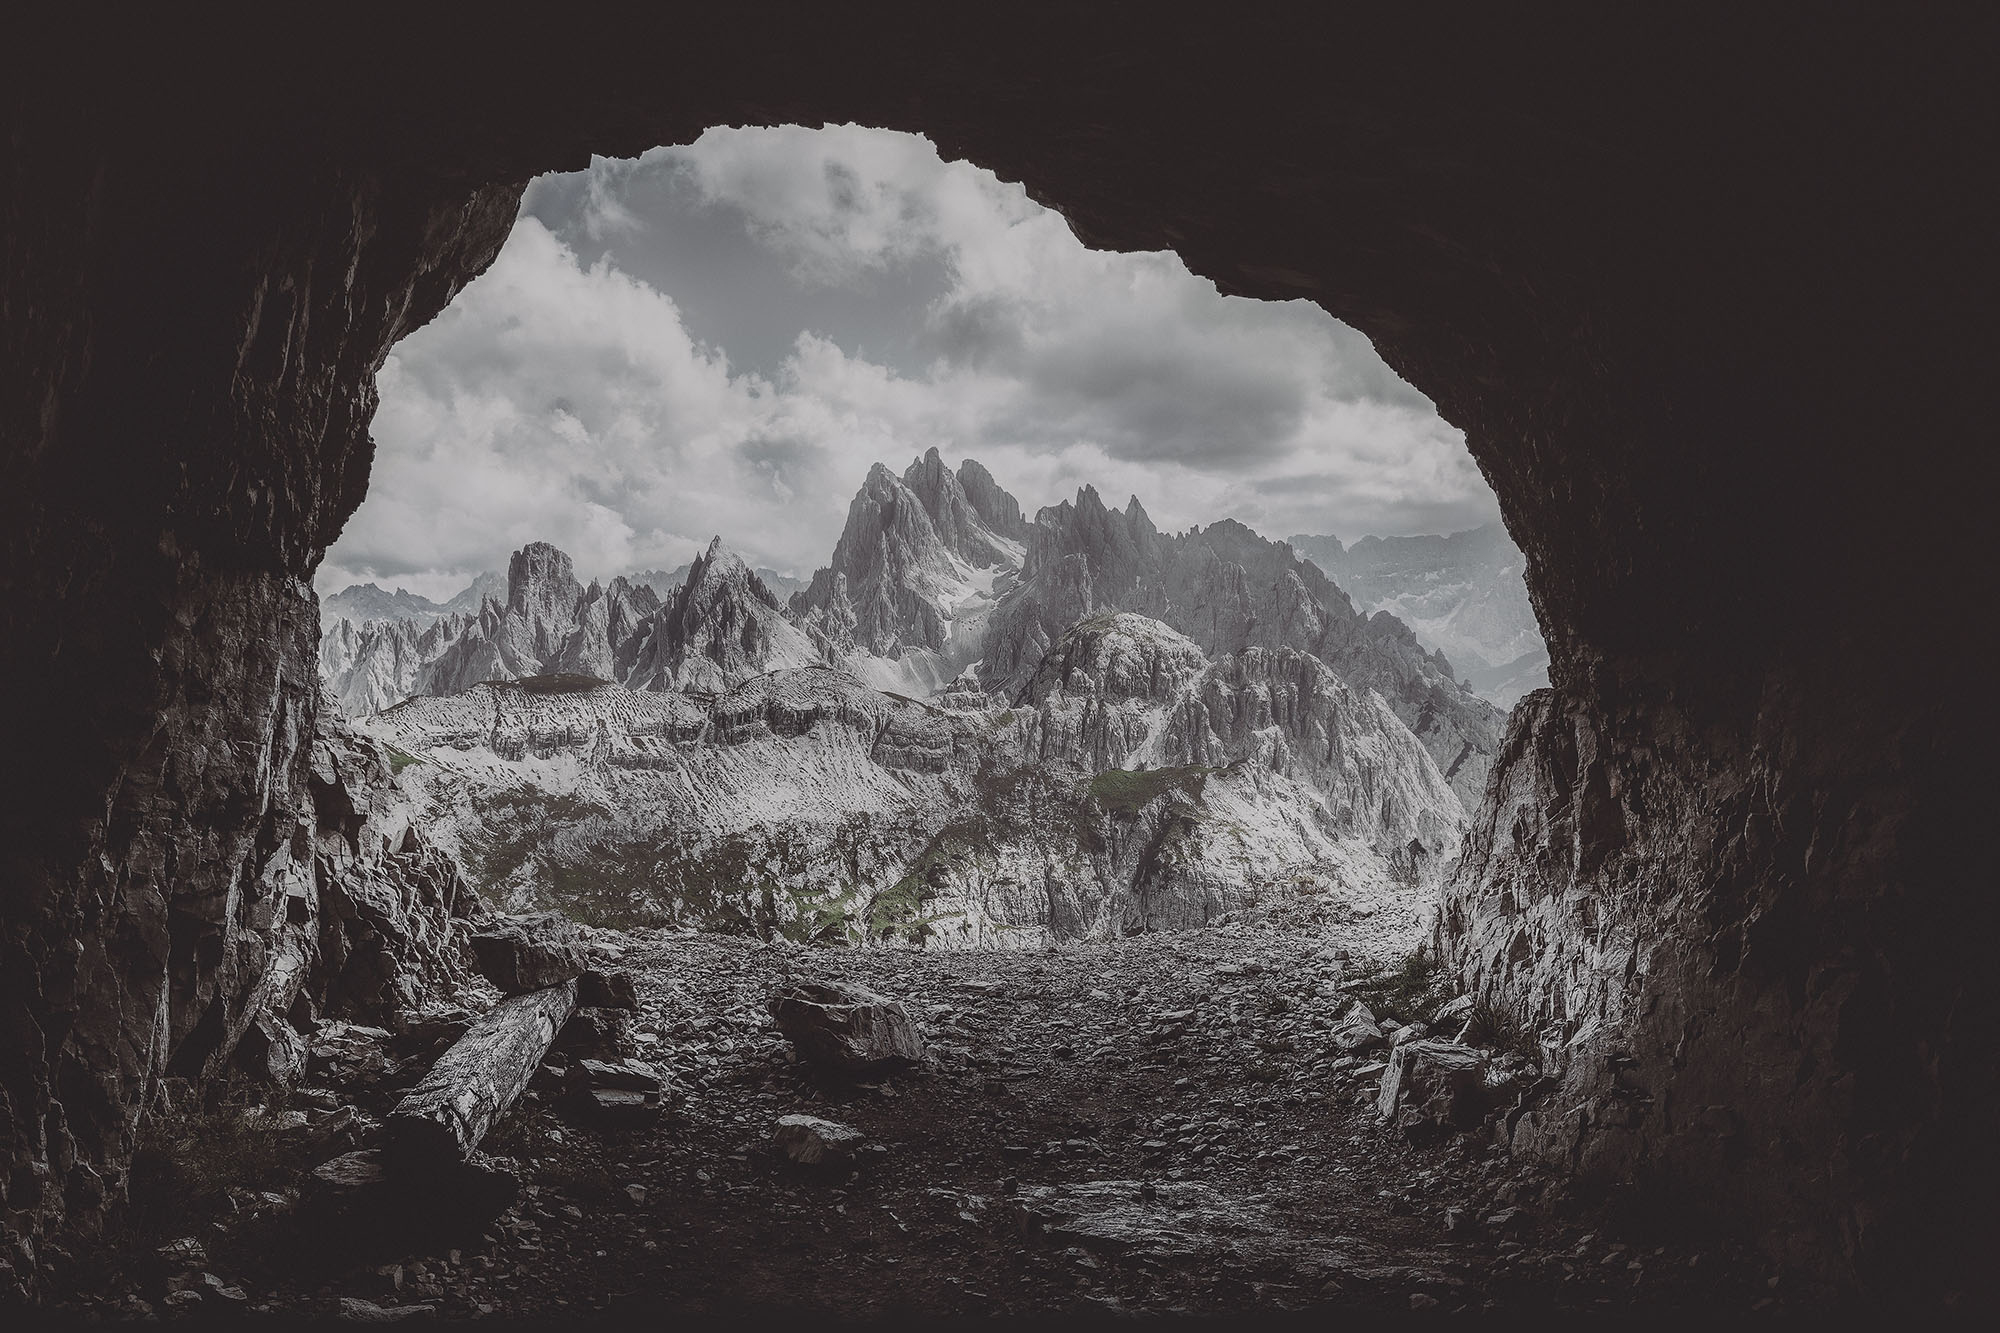
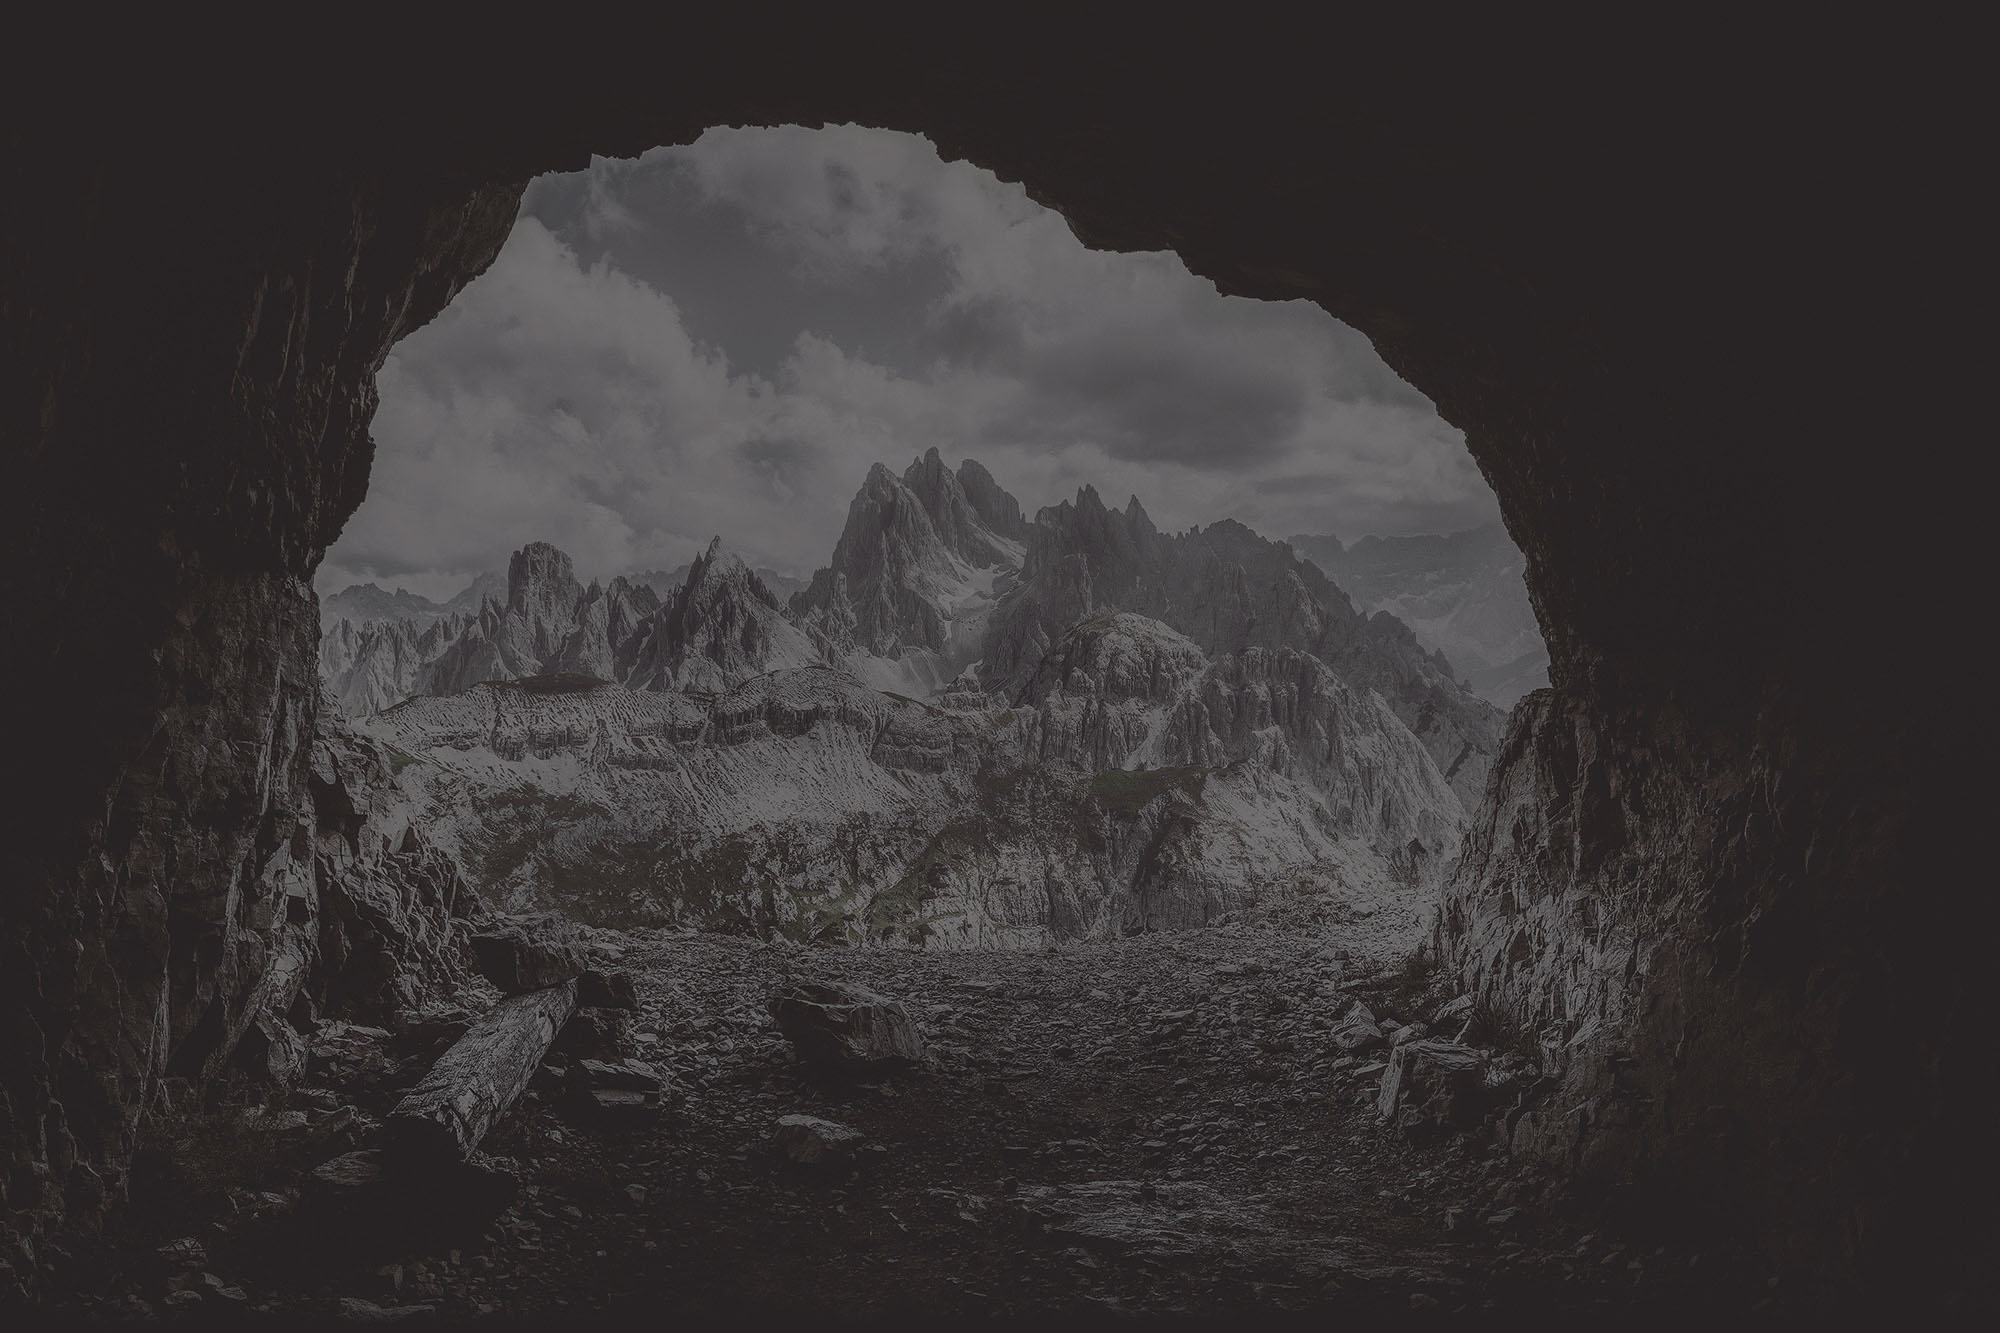
styles changes

diff --git a/Frontend/src/styles.css b/Frontend/src/styles.css
@@ -5,14 +5,14 @@
 body{
     margin: 0 auto;
     background-color: #272324;
-    background-size: 100% auto;
-    background-image: url("./assets/cave1.jpg");
-    background-position: center top; 
-    background-repeat: no-repeat;
-    background-attachment: fixed;
     width: 100%;
     font-family: Arial, Helvetica, sans-serif;
     color: white;
+    background-size:  auto 100%;
+    background-image: url("./assets/cave2.jpg");
+    background-position: center top; 
+    background-repeat: no-repeat;
+    background-attachment: fixed;
 }
 
 .btn{
@@ -34,7 +34,7 @@ body{
 }
 
 .ag-paging-page-summary-panel{
-    color: #00b0f9;;
+    color: #00b0f9;
     display: inline-block;
     white-space: nowrap;
 }

diff --git a/Frontend/src/app/groups/manage-group/manage-group.component.html b/Frontend/src/app/groups/manage-group/manage-group.component.html
@@ -10,7 +10,7 @@
         <br/>
 
       <h2> Lista użytkowników </h2>
-      <ag-grid-angular style="width: 100%; height: 475px;" class="ag-theme-blue" [rowData]="group?.users" [columnDefs]="columnDefs"
+      <ag-grid-angular style="width: 100%; height: 475px;" class="ag-theme-dark" [rowData]="group?.users" [columnDefs]="columnDefs"
       [enableSorting]="true" [enableFilter]="true" (gridReady)="onGridReady($event)" [gridOptions]="gridOptions"
       [pagination]="true" [paginationAutoPageSize]="true" [localeText]="localeText" 
       (gridColumnsChanged)="onGridColumnsChanged($event)" (rowClicked)="onRowClicked($event)" (gridSizeChanged)="onGridSizeChanged($event)">

diff --git a/Frontend/src/app/home-page/home-page.component.css b/Frontend/src/app/home-page/home-page.component.css
@@ -35,7 +35,7 @@
     color: white;
     text-align: justify;
     text-justify: inter-word;
-    background-color: rgba(0, 0, 0, 0.534);
+    background-color: rgb(24, 22, 22);
     max-width: 90%;
     margin: 0 auto;
     line-height: 200%;
@@ -59,15 +59,9 @@ img{
 
 h2{
     text-align: center;
-    color: #272324;
+    color: rgb(206, 168, 86);
     font-weight: bold;
     padding: 50px 0;
-    background-color: #272324;
-    background-image: url("./../../assets/study6.jpg");
-    background-size: 100% auto;
-    background-position: center center; 
-    background-repeat: repeat;
-    background-attachment: fixed;
 }
 
 @media screen and (max-width: 800px) {

diff --git a/Frontend/src/app/groups/my-groups/my-groups.component.html b/Frontend/src/app/groups/my-groups/my-groups.component.html
@@ -11,7 +11,7 @@
       </div>
     </div>
     <br />
-    <ag-grid-angular style="width: 100%; height: 475px;" class="ag-theme-blue" [rowData]="groups" [columnDefs]="columnDefs"
+    <ag-grid-angular style="width: 100%; height: 475px;" class="ag-theme-dark" [rowData]="groups" [columnDefs]="columnDefs"
       [enableSorting]="true" [enableFilter]="true" (gridReady)="onGridReady($event)" [gridOptions]="gridOptions"
       [pagination]="true" [paginationAutoPageSize]="true" (rowClicked)="onRowClicked($event)" [localeText]="localeText" 
       (gridColumnsChanged)="onGridColumnsChanged($event)" (gridSizeChanged)="onGridSizeChanged($event)">

diff --git a/Frontend/src/app/main-navigation/main-navigation.component.css b/Frontend/src/app/main-navigation/main-navigation.component.css
@@ -5,7 +5,7 @@
     width: 100%;
     max-width: 100%;
     margin: 0 auto;
-    background-color: rgba(0, 0, 0, 0.534);
+    background-color: #181616;
     height: 100px;
     /*border-bottom: 5px solid white;*/
     display: flex;

diff --git a/Frontend/src/app/app.component.css b/Frontend/src/app/app.component.css
@@ -6,7 +6,7 @@
     overflow: auto;
     height: calc(100vh - 154px);
     min-height: calc(100vh - 154px);
-    background-color: rgba(0, 0, 0, 0.534);
+    
 }
 
 .wrapper{

diff --git a/Frontend/src/app/footer/footer.component.css b/Frontend/src/app/footer/footer.component.css
@@ -5,6 +5,6 @@
     bottom: 0;
     width: 100%;
     max-width: 100%;
-    background-color: rgb(8, 8, 8);
+    background-color: rgb(24, 22, 22);
     padding: 1rem 0;
 }
